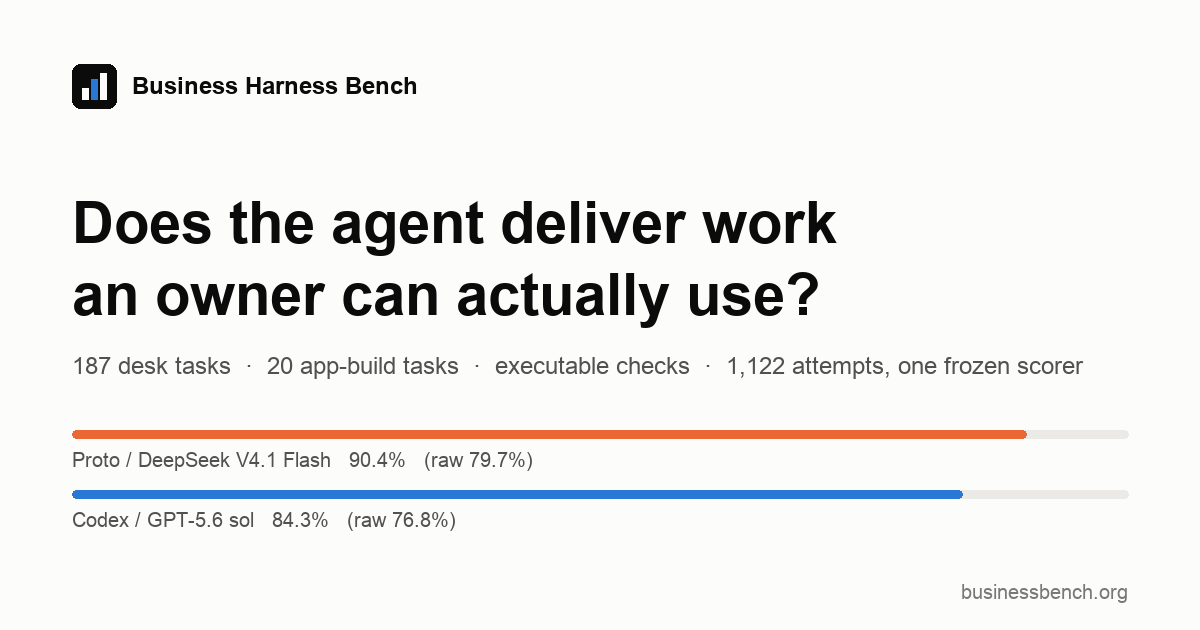
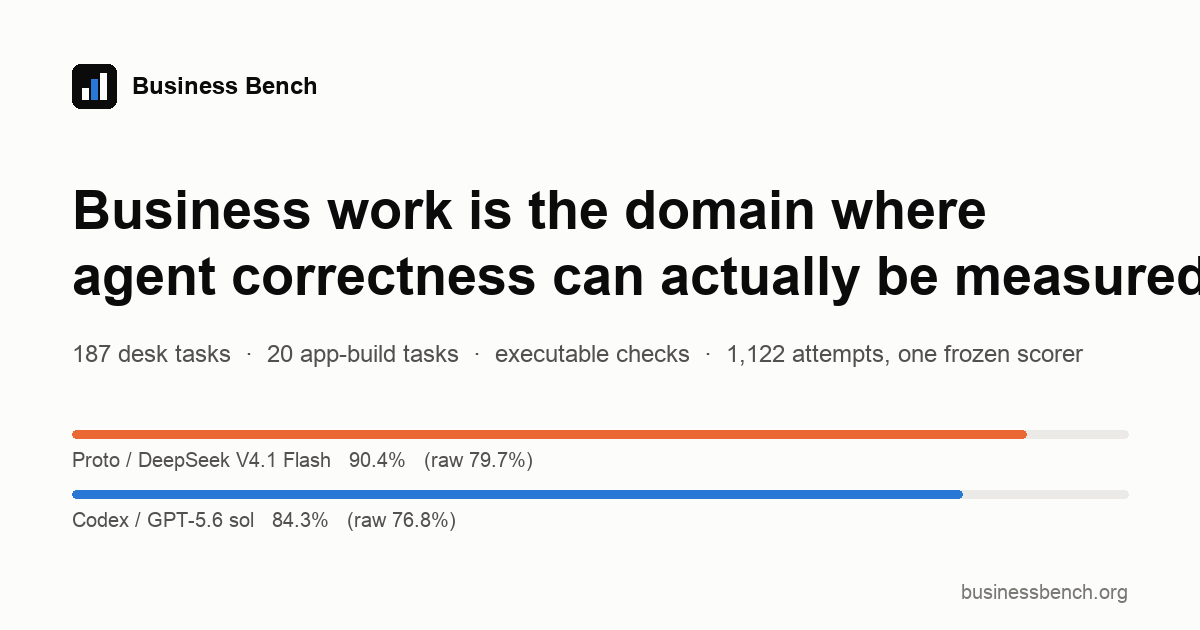
Name: Business Bench (#4)
Drop 'Harness' from the site, README heading, STATUS, GOALS, and the v2
docs. The unit of comparison is the configured system, not the harness,
and a vendor that builds a harness should not name the bench after one.
The paper's own title is the authors' and is tracked as an issue. OG
image regenerated with the new name and the front-page thesis.

diff --git a/site/src/styles/global.css b/site/src/styles/global.css
@@ -1,4 +1,4 @@
-/* Business Harness Bench site. One spacing scale (4/8/12/16/24/32/48/64), one grid. */
+/* Business Bench site. One spacing scale (4/8/12/16/24/32/48/64), one grid. */
 :root {
   color-scheme: light;
   --bg: #fcfcfb;

diff --git a/README.md b/README.md
@@ -1,10 +1,10 @@
-# Business Harness Bench
+# Business Bench
 
 **Does the agent deliver business work that an owner can actually use?**
 
 Site: [businessbench.org](https://businessbench.org) (results, task pages, methods, paper, self-audit). License: MIT.
 
-Business Harness Bench tests the handoff, not the agent's confidence: reconciled files, correct imports, source-grounded reports, and applications whose behavior holds up under use and subsequent changes.
+Business Bench tests the handoff, not the agent's confidence: reconciled files, correct imports, source-grounded reports, and applications whose behavior holds up under use and subsequent changes.
 
 - **Desk:** 187 tasks across seven categories, each with inputs, an ask, checks, a generator, and a reference solution.
 - **Build:** 20 business applications, each with seed data, an acceptance checklist, and three change requests.

diff --git a/docs/v2/tasks.md b/docs/v2/tasks.md
@@ -1,4 +1,4 @@
-# Business Harness Bench v2: the 100 tasks
+# Business Bench v2: the 100 tasks
 
 Agreed list, 2026-09-18. Companion to [README.md](README.md), which holds the thesis, axes, grading vocabulary, difficulty bands, and order of work. Slugs are provisional task ids. Each task will be authored at three bands from one generator.
 

diff --git a/STATUS.md b/STATUS.md
@@ -1,6 +1,6 @@
 # Status
 
-Business Harness Bench: a runnable benchmark for agents doing business work.
+Business Bench: a runnable benchmark for agents doing business work.
 Public site: https://businessbench.org. Repo: erphq/business-bench (public from v1.0.0).
 
 ## Current state (2026-09-17)

diff --git a/docs/v2/README.md b/docs/v2/README.md
@@ -1,4 +1,4 @@
-# Business Harness Bench v2: specification for discussion
+# Business Bench v2: specification for discussion
 
 Status: agreed direction, 2026-09-18. Task authoring has not started. This document
 is the contract the v2 tasks will be written against. It supersedes nothing in v1;
